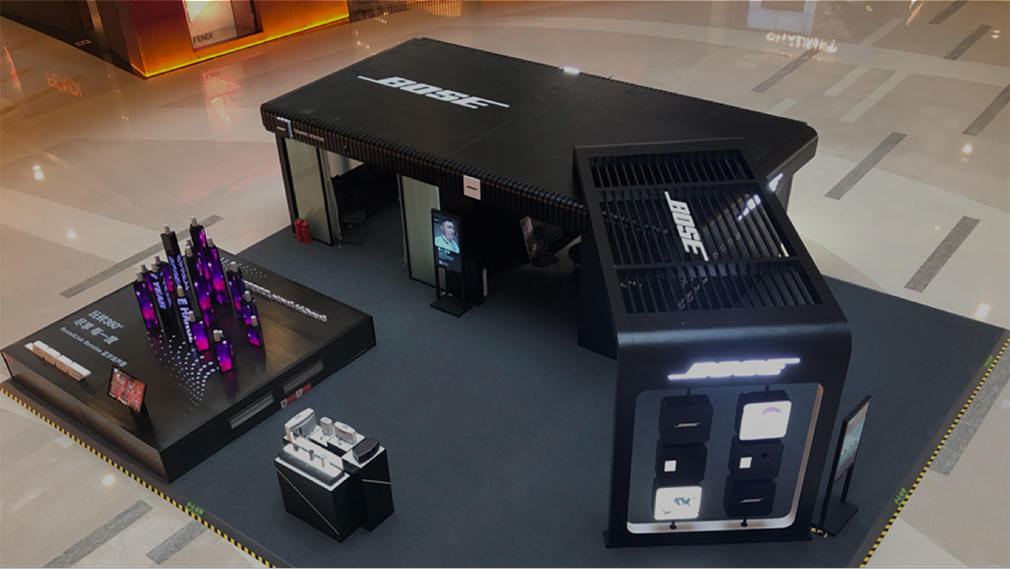
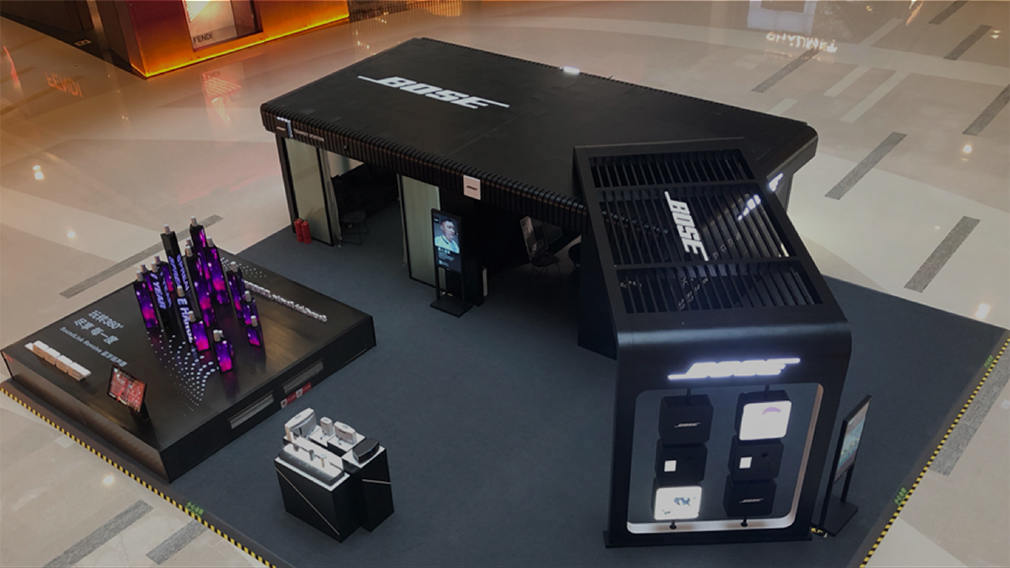
up

diff --git a/src/components/main_contents/bose.vue b/src/components/main_contents/bose.vue
@@ -14,13 +14,13 @@
             </div>
           </el-col>
           <el-col :span="15">
-            <img src="../../assets/main_bose.png" class="main-pic" />
+            <img src="../../assets/main_bose.jpg" class="main-pic" />
           </el-col>
         </el-row>
       </el-col>
       <el-col :span="24" :xs="24" :sm="0" :md="0" :lg="0" :xl="0">
         <div class="main_banner_img">
-          <img src="../../assets/main_bose.png" class="main-pic" />
+          <img src="../../assets/main_bose.jpg" class="main-pic" />
         </div>
         <div>
           <div class="main-txt">
